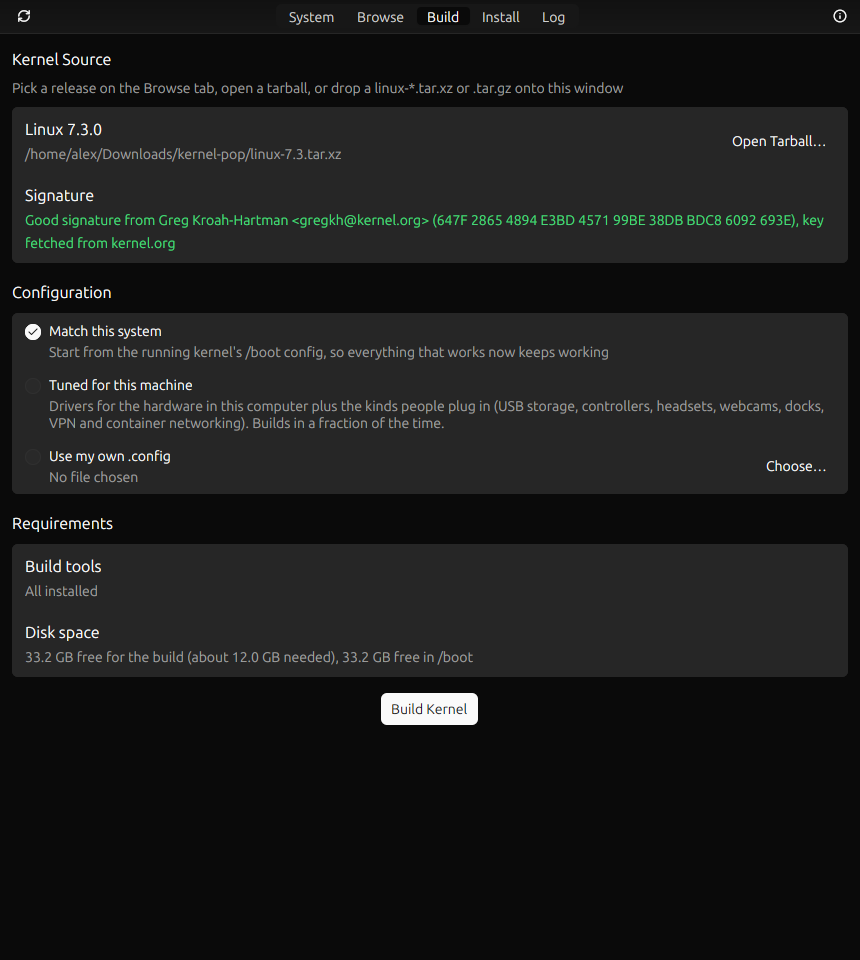
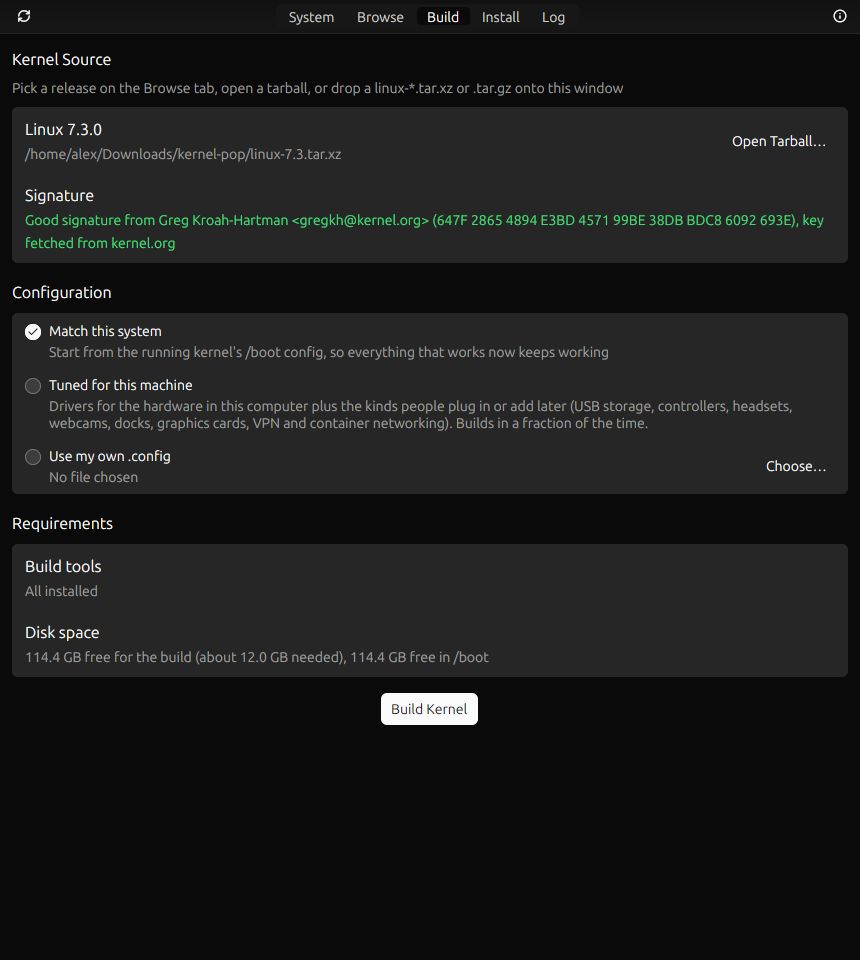
Kernel Pop 2.6.2
Version bump, changelog section and regenerated appdata releases. The
Build tab screenshot is retaken with the new Tuned description.

Changed region(s): [[0.0605, 0.4062, 0.9674, 0.4688], [0.0302, 0.6562, 0.3326, 0.6875], [0.3628, 0.6562, 0.5744, 0.6875]]

diff --git a/CHANGELOG.md b/CHANGELOG.md
@@ -4,7 +4,7 @@ One `## <version> — <date>` heading per released version, newest first. A rele
 carries its section as written, and the AppStream `<releases>` list is generated from these
 headings.
 
-## Unreleased
+## 2.6.2 — 2026-11-22
 
 - **A graphics card added later works with a Tuned kernel.** Tuned for this machine kept only the
   driver of the graphics card in the computer while you configured, so a second or replacement
